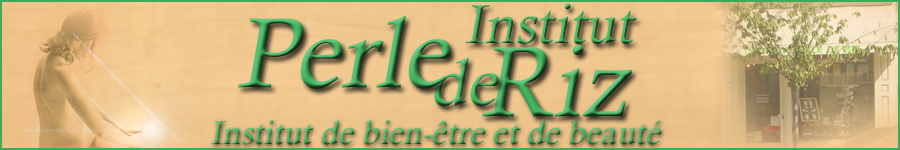
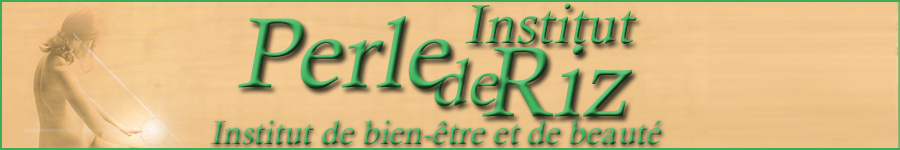
nouvelle localisation

Changed region(s): [[0.8089, 0.0, 1.0, 0.9867]]

diff --git a/corps.htm b/corps.htm
@@ -71,7 +71,7 @@ a:hover {
 <img alt="" src="banpdr.jpg" width="900" height="150" /></div>
 <!--/ban-->
 <!--corps-->
-<div style="position: absolute; width: 900px; height: 1289px; top: 221px; z-index : 1; left: 0px;" id="corps" class="style1">
+<div style="position: absolute; width: 900px; height: 789px; top: 221px; z-index : 1; left: 0px;" id="corps" class="style1">
 <div class="style2">
 	<br />
 	<strong><span class="style8">Soins du corps YON-KA</span></strong><br />
@@ -82,11 +82,11 @@ a:hover {
 	<colgroup>
 		<col width="235" /><col width="367" /><col width="64" />
 	</colgroup>
-	<tr height="27">
+	<!-- <tr height="27">
 		<td colspan="3" height="27" width="666" class="style6"><strong>
 		EXFOLIATION</strong></td>
-	</tr>
-	<tr height="27">
+	</tr> -->
+	<!-- <tr height="27">
 		<td height="27" class="style7"><strong>Gommage marin</strong></td>
 		<td class="style7">Gommage tonifiant (sel et huiles essentielles)</td>
 		<td class="style6">30mn</td>
@@ -98,26 +98,31 @@ a:hover {
 	</tr>
 	<tr height="27">
 		<td colspan="3" height="27" class="style7"></td>
-	</tr>
+	</tr> -->
 	<tr height="27">
 		<td colspan="3" height="27" width="666" class="style6"><strong>
 		HYDRATATION</strong></td>
 	</tr>
 	<tr height="27">
+		<td height="27" class="style7"><strong>Soins bougie</strong></td>
+		<td class="style7">Modelage avec huila apaisante</td>
+		<td class="style6">1h</td>
+	</tr>
+	<!-- <tr height="27">
 		<td height="27" class="style7"><strong>Soins velours</strong></td>
 		<td class="style7">Gommage hydratant et tonifiant</td>
 		<td class="style6">1h</td>
-	</tr>
+	</tr> -->
 	<tr height="27">
 		<td height="27" class="style7"><strong>Hydralessence corps</strong></td>
 		<td class="style7">Soin d'hydratation intense</td>
-		<td class="style6">1h50</td>
+		<td class="style6">1h45</td>
 	</tr>
 	<tr height="27">
 		<td colspan="3" height="27" class="style7"></td>
 	</tr>
 
-	<tr height="27">
+	<!-- <tr height="27">
 		<td colspan="3" height="27" class="style6"><strong>SILHOUETTE</strong></td>
 	</tr>
 	<tr height="27">
@@ -144,20 +149,38 @@ a:hover {
 		<td height="27" class="style7"><strong>Phyto Fermet�</strong></td>
 		<td class="style7">Soin corps raffermissant liftant</td>
 		<td class="style6">1h</td>
-	</tr>
+	</tr> -->
 
 	<tr height="27">
 		<td colspan="3" height="27" class="style7"></td>
 	</tr>
-	<tr height="27">
-		<td colspan="3" height="27" class="style6"><strong>TENDANCE SPA</strong></td>
-	</tr>
+
 	<tr height="27">
 		<td height="27" class="style7"><strong>Aroma Luxe</strong></td>
 		<td class="style7">Relaxation aromatique et dynamisant</td>
 		<td class="style6">1h</td>
 	</tr>
 	<tr height="27">
+		<td height="27" class="style7"><strong>Aroma sculptant</strong></td>
+		<td class="style7">Modelage tonifiant, sculptant avec bambous sur les jambes</td>
+		<td class="style6">1h</td>
+	</tr>
+	<tr height="27">
+		<td height="27" class="style7"><strong>Aroma Relax</strong></td>
+		<td class="style7">Modelage d&eacute;lassant avec techniques d&eacute;contractantes aux pierres chaudes sur le dos</td>
+		<td class="style6">1h</td>
+	</tr>
+	<tr height="27">
+		<td height="27" class="style7"><strong>Aroma Energy</strong></td>
+		<td class="style7">Modelage &eacute;nergisant digitopression mains pieds</td>
+		<td class="style6">1h</td>
+	</tr>
+	<tr height="27">
+		<td height="27" class="style7"><strong>Relax velours</strong></td>
+		<td class="style7">Modelage corps restructurant</td>
+		<td class="style6">45min</td>
+	</tr>
+	<!-- <tr height="27">
 		<td height="27" class="style7"><strong>Massage velours</strong></td>
 		<td class="style7">Massage corps restructurant</td>
 		<td class="style6">40mn</td>
@@ -248,23 +271,23 @@ a:hover {
 		<td height="27" class="style7"><strong>Bien-&ecirc;tre au masculin</strong></td>
 		<td class="style7">Soin de d&eacute;tente visage et corps</td>
 		<td class="style6">1h35</td>
-	</tr>
+	</tr> -->
 
 </table>
 
 	</div>
 	<br />
-<div style="position: absolute; width: 200px; height: 1101px; z-index: 1; left: 690px; top: 100px" id="couche1">
+<div style="position: absolute; width: 200px; height: 701px; z-index: 1; left: 690px; top: 100px" id="couche1">
 <img alt="" src="AROMASTONE02.jpg" width="200" height="189" /><br />
-<span class="style13"><br />
-<img alt="" src="CORPS03.jpg" width="200" height="203" /><br />
+<!-- <span class="style13"><br />
+<img alt="" src="CORPS03.jpg" width="200" height="203" /><br />-->
 <br />
-</span>
+<!-- </span>
 <img alt="" src="JAMBES01.jpg" width="200" height="182" /><span class="style13"><br />
 <br />
-</span>
+</span> -->
 <img alt="" src="CORPS04.jpg" width="200" height="152" /><br />
-<span class="style13"><br />
+<span class="style13"><br /><br />
 </span>
 <img alt="" src="HOMMENUQUE.jpg" width="200" height="301" /></div>
 </div>
@@ -280,18 +303,18 @@ a:hover {
 <div style="position: absolute; width: 900px; height: 30px; top: 180px; z-index : 1; " id="menu" class="style2">
 <table style="width: 100%" class="style5" cellpadding="0" cellspacing="0">
 	<tr class="style2">
-		<td style="height: 22px"><a href="index.htm">
+		<td style="height: 22px; width: 300px"><a href="index.htm">
 		Accueil - R&eacute;flexologie</a></td>
-		<td style="height: 22px"><a href="visage.htm">
-		Soins du visage</a></td>
-		<td style="height: 22px"><a href="corps.htm">
+		<!-- <td style="height: 22px"><a href="visage.htm">
+		Soins du visage</a></td> -->
+		<td style="height: 22px; width: 300px"><a href="corps.htm">
 		Soins du corps</a></td>
-		<td style="height: 22px"><a href="divers.htm">
-		Soins esth&eacute;tiques</a></td>
-		<td style="height: 22px"><a href="produits.htm">
+		<!-- <td style="height: 22px"><a href="divers.htm">
+		Soins esth&eacute;tiques</a></td> -->
+		<td style="height: 22px; width: 300px"><a href="produits.htm">
 		Produits</a></td>
-		<td style="height: 22px"><a href="hammam.htm">
-		Hammam</a></td>
+		<!-- <td style="height: 22px"><a href="hammam.htm">
+		Hammam</a></td> -->
 	</tr>
 </table>
 </div>

diff --git a/produits.htm b/produits.htm
@@ -95,10 +95,10 @@ a:hover {
 <img alt="" src="banpdr.jpg" width="900" height="150" /></div>
 <!--/ban-->
 <!--corps-->
-<div style="position: absolute; width: 900px; height: 1342px; top: 221px; z-index : 1; left: 0px;" id="corps" class="style1">
+<div style="position: absolute; width: 900px; height: 842px; top: 221px; z-index : 1; left: 0px;" id="corps" class="style1">
 <div class="style2" style="padding-top:35px">
-	<img alt="" src="prd1.JPG" width="491" height="370" class="style18" />
-	<img alt="" src="prd2.JPG" width="276" height="370" class="style19" />
+	<!-- <img alt="" src="prd1.JPG" width="491" height="370" class="style18" />
+	<img alt="" src="prd2.JPG" width="276" height="370" class="style19" /> -->
 	<br />
 	<strong><span class="style8">Produits</span></strong><br />
 	&nbsp;<div style="align= center;  width: 898px; height: 700px; z-index: 3; left: 200px; top: 496px" id="couche3">
@@ -130,7 +130,7 @@ a:hover {
 		<a target="_blank" href="http://www.phyts.com/">
 		<img alt="" src="img8.jpg" width="180" height="87" class="style25" /></a></td>
 	</tr>
-	<tr>
+	<!-- <tr>
 		<td nowrap class="style17" style="height: 50px">
 		<img alt="" src="img3.jpg" class="style20" /><p class="style23">
 		Chen-Yu</p>
@@ -138,7 +138,7 @@ a:hover {
 		<td nowrap class="style17" style="height: 50px">
 		<a target="_blank" href="http://chen-yu.net/makeup_concept_fr.html">
 		<img alt="" src="img7.gif" class="style24" /></a></td>
-	</tr>
+	</tr> -->
 	</table>
 </div>
 	</div>
@@ -151,18 +151,18 @@ a:hover {
 <div style="position: absolute; width: 900px; height: 30px; top: 180px; z-index : 1; " id="menu" class="style2">
 <table style="width: 100%" class="style5" cellpadding="0" cellspacing="0">
 	<tr class="style2">
-		<td style="height: 22px"><a href="index.htm">
+		<td style="height: 22px; width: 300px"><a href="index.htm">
 		Accueil - R&eacute;flexologie</a></td>
-		<td style="height: 22px"><a href="visage.htm">
-		Soins du visage</a></td>
-		<td style="height: 22px"><a href="corps.htm">
+		<!-- <td style="height: 22px"><a href="visage.htm">
+		Soins du visage</a></td> -->
+		<td style="height: 22px; width: 300px"><a href="corps.htm">
 		Soins du corps</a></td>
-		<td style="height: 22px"><a href="divers.htm">
-		Soins esth&eacute;tiques</a></td>
-		<td style="height: 22px"><a href="produits.htm">
+		<!-- <td style="height: 22px"><a href="divers.htm">
+		Soins esth&eacute;tiques</a></td> -->
+		<td style="height: 22px; width: 300px"><a href="produits.htm">
 		Produits</a></td>
-		<td style="height: 22px"><a href="hammam.htm">
-		Hammam</a></td>
+		<!-- <td style="height: 22px"><a href="hammam.htm">
+		Hammam</a></td> -->
 	</tr>
 </table>
 </div>

diff --git a/index.htm b/index.htm
@@ -73,9 +73,6 @@ a:hover {
 <div style="position: absolute; width: 900px; height: 1100px; top: 221px; z-index : 1;" id="corps" class="style1">
 <table style="width: 850px; height: 270px;">
 	<tr>
-		<td class="style2">
-		<br />
-		<img alt="" src="magasin.jpg" width="181" height="250" class="style7" /></td>
 		<td class="style2"><em><span class="style6">
 		<br />
 		L'institut vous accueille <br />
@@ -84,7 +81,7 @@ a:hover {
 		<br />
 		<em>Institut Perle de Riz<br />
 		Institut de Bien-&ecirc;tre et de beaut&eacute;<br />
-		15, avenue de la R&eacute;publique<br />
+		4, rue Alfred de Musset<br />
 		94100 Saint-Maur-des-Foss&eacute;s<br />
 		T&eacute;l./Fax : 01 48 83 95 72<br />
 		<br />
@@ -142,18 +139,18 @@ a:hover {
 <div style="position: absolute; width: 900px; height: 30px; top: 180px; z-index : 1; " id="menu" class="style2">
 <table style="width: 100%" class="style5" cellpadding="0" cellspacing="0">
 	<tr class="style2">
-		<td style="height: 22px"><a href="index.htm">
+		<td style="height: 22px; width: 300px"><a href="index.htm">
 		Accueil - R&eacute;flexologie</a></td>
-		<td style="height: 22px"><a href="visage.htm">
-		Soins du visage</a></td>
-		<td style="height: 22px"><a href="corps.htm">
+		<!-- <td style="height: 22px"><a href="visage.htm">
+		Soins du visage</a></td> -->
+		<td style="height: 22px; width: 300px"><a href="corps.htm">
 		Soins du corps</a></td>
-		<td style="height: 22px"><a href="divers.htm">
-		Soins esth&eacute;tiques</a></td>
-		<td style="height: 22px"><a href="produits.htm">
+		<!-- <td style="height: 22px"><a href="divers.htm">
+		Soins esth&eacute;tiques</a></td> -->
+		<td style="height: 22px; width: 300px"><a href="produits.htm">
 		Produits</a></td>
-		<td style="height: 22px"><a href="hammam.htm">
-		Hammam</a></td>
+		<!-- <td style="height: 22px"><a href="hammam.htm">
+		Hammam</a></td> -->
 	</tr>
 </table>
 </div>
